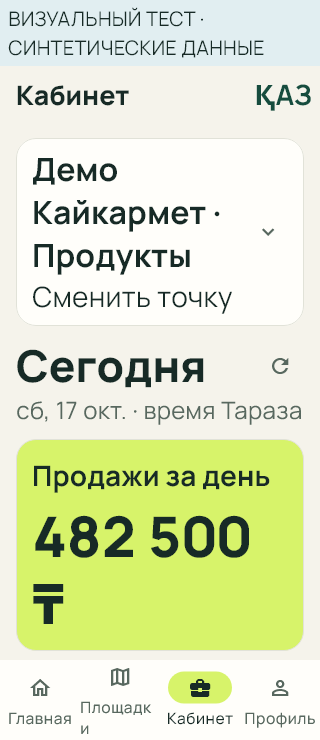
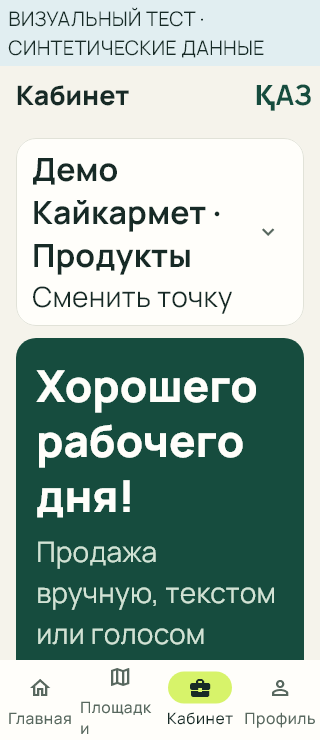
feat(mobile): align seller welcome with current Qadam site

diff --git a/apps/mobile/lib/crm/crm_dashboard.dart b/apps/mobile/lib/crm/crm_dashboard.dart
@@ -1,6 +1,7 @@
 import 'package:flutter/material.dart';
 
 import '../ui/common.dart';
+import '../ui/qadam_theme.dart';
 import 'crm_models.dart';
 import 'crm_pages.dart';
 import 'crm_ui.dart';
@@ -75,6 +76,51 @@ class _CrmDashboardState extends CrmScreenState<CrmDashboard> {
     Column(
       crossAxisAlignment: CrossAxisAlignment.stretch,
       children: [
+        Container(
+          padding: const EdgeInsets.all(20),
+          decoration: BoxDecoration(
+            color: QadamTheme.green,
+            borderRadius: BorderRadius.circular(20),
+          ),
+          child: Column(
+            crossAxisAlignment: CrossAxisAlignment.stretch,
+            children: [
+              Text(
+                tr(kk, 'Хорошего рабочего дня!', 'Жұмысыңыз сәтті болсын!'),
+                style: Theme.of(
+                  context,
+                ).textTheme.titleLarge!.copyWith(color: QadamTheme.surface),
+              ),
+              const SizedBox(height: 8),
+              Text(
+                tr(
+                  kk,
+                  'Продажа вручную, текстом или голосом',
+                  'Сатылымды қолмен, мәтінмен немесе дауыспен енгізу',
+                ),
+                style: const TextStyle(color: Color(0xffd2e2d4)),
+              ),
+              const SizedBox(height: 16),
+              FilledButton.icon(
+                key: const Key('crm-new-entry'),
+                style: FilledButton.styleFrom(
+                  backgroundColor: QadamTheme.lime,
+                  foregroundColor: QadamTheme.ink,
+                ),
+                onPressed: () => open(
+                  CrmEntryPage(
+                    runtime: widget.runtime,
+                    business: widget.business,
+                    kk: kk,
+                  ),
+                ),
+                icon: const Icon(Icons.add),
+                label: Text(tr(kk, 'Новая запись', 'Жаңа жазба')),
+              ),
+            ],
+          ),
+        ),
+        const SizedBox(height: 16),
         Row(
           children: [
             Expanded(
@@ -124,30 +170,6 @@ class _CrmDashboardState extends CrmScreenState<CrmDashboard> {
               ),
             ],
           ),
-        const SizedBox(height: 16),
-        FilledButton.icon(
-          key: const Key('crm-new-entry'),
-          onPressed: () => open(
-            CrmEntryPage(
-              runtime: widget.runtime,
-              business: widget.business,
-              kk: kk,
-            ),
-          ),
-          icon: const Icon(Icons.add),
-          label: Text(tr(kk, 'Новая запись', 'Жаңа жазба')),
-        ),
-        Padding(
-          padding: const EdgeInsets.only(top: 8),
-          child: Text(
-            tr(
-              kk,
-              'Продажа вручную, текстом или голосом',
-              'Сатылымды қолмен, мәтінмен немесе дауыспен енгізу',
-            ),
-            style: Theme.of(context).textTheme.bodySmall,
-          ),
-        ),
         section('Работа с клиентами', 'Клиенттермен жұмыс', [
           action(
             'Клиенты',

diff --git a/apps/mobile/docs/STRUCTURE_051.md b/apps/mobile/docs/STRUCTURE_051.md
@@ -1,0 +1,60 @@
+# Qadam 0.5.1 — единая структура приложения
+
+Пользователь уточнил: Мал базар — площадка рядом с MART, Кайкарметом и Ауыл Береке,
+а не отдельный верхний раздел. Это уточнение заменяет прежний порядок четырёх вкладок.
+
+## Что изменено
+
+- Нижнее меню: **Главная / Площадки / Кабинет / Профиль**.
+- Главная: знак и палитра сайта, зелёный вводный блок, лаймовая кнопка поиска,
+  вход в кабинет и подборка площадок. Главная открывается без входа.
+- Площадки: компактный список с принятыми изображениями, названием и переходом.
+  **Мал базар — четвёртая карточка**, открывающая существующую нативную ленту.
+  Его фото, фильтры, статистика, формы и статусы сохранены.
+- Профиль: аккаунт/вход, кабинет и выбранная точка, свои объявления, выбор RU/KZ,
+  помощь, версия, лицензии и выход. Нет фиктивного редактирования аккаунта.
+- Кабинет: приветствие и основная запись над серверной сводкой; прежние нативные
+  продажи, клиенты, долги, заявки, каталог, история, итог дня и аналитика сохранены.
+- Системный Back возвращает из Мал базара к площадкам, из верхнего раздела на главную.
+  Формы по-прежнему открываются отдельными нативными маршрутами с прежними защитами.
+- Состояние раскрытого выбора точки отделено от позиции прокрутки. Исправлен
+  обнаруженный регресс `double is not a subtype of bool` при восстановлении списка.
+
+## Эталоны и границы сравнения
+
+- `https://qadamx-taraz.vercel.app/`: просмотрена публичная главная, палитра/знак,
+  иерархия выбора площадок; Мал базар обозначен четвёртой площадкой.
+- Предоставленный Vercel Preview `qadamx-taraz-git-integration-customer-ids-history-p-it-chers.vercel.app`
+  перенаправляет этот браузер на Vercel Login. Его визуальная проверка не заявляется.
+  Прочитана ветка `integration/customer-ids-history` на
+  `8f1764d37db9464bcd760be8a29c3b4eb93b96c4`: изменения истории и пакетных имён;
+  SHA работающего Preview независимо не подтверждён.
+- `https://qadamx-taraz.pages.dev/`: доступны главная, вход и **демо-кабинет только для просмотра**.
+  Просмотрены его меню и зелёный приветственный блок. Реальные учётные данные не вводились,
+  операции не отправлялись. Это сравнение интерфейса, не live Auth/денежная приёмка.
+
+В приложении остаются постоянный API `https://qadamx-taraz.onrender.com/api/v1`,
+публичный frontend origin `https://qadamx-taraz.vercel.app` и прежняя Supabase-конфигурация.
+Новые ссылки использованы для сравнения; backend/Auth origins не переключались.
+Главная, профиль, каталог и кабинет остаются Flutter-экранами; WebView только для3D.
+
+## Матрица текущих изменений
+
+| Сценарий сайта | Flutter | Доказательство кода/визуала | Физический телефон |
+|---|---|---|---|
+| Главная → выбор площадки | Новый режим главной в существующем PublicHome | Widget RU/KZ,320–412dp,1–2× | Не проверен |
+| Четыре площадки | PublicHome → VenuePage / прежний Мал базар | Нет вкладки Мал базара; native Back | Не проверен |
+| Кабинет → основные разделы | Прежний CrmDashboard и страницы CRM | Без замены API/денег/pending | Не проверен |
+| Аккаунт и управление | QadamShell Profile | Переход к собственным объявлениям, язык, помощь, logout/isolation | Не проверен |
+| Магазин → каталог/заявка | Прежний PublicShopPage/InquiryForm | Сохранённая регрессия неизвестного результата | Не проверен |
+
+[Галерея Flutter с явно синтетическими данными](reports/visual-051/README.md).
+Факт сборки, source SHA, checksum и Android-прогона фиксируется отдельно в handoff
+и отчёте APK. Наличие кода или синтетического снимка не означает проверку на телефоне.
+
+Открытые ограничения: mobile Auth callback/confirmation/reset; отсутствующие поля
+фото/контактов магазина и серверное редактирование каталога/клиентов; физические A/B,
+камера/микрофон, сохранение реальных данных при обновлении и все9 Android3D-соответствий.
+Ранее сообщённая пользователем «ошибка пакета» остаётся открытой до проверки его устройства.
+Старый recording.webm не искали. Платные AI, денежные операции, внешние заявки,
+main, production, общая БД и настройки Supabase не затронуты.

diff --git a/apps/mobile/docs/reports/visual-051/README.md b/apps/mobile/docs/reports/visual-051/README.md
@@ -1,6 +1,9 @@
 # Qadam 0.5.1 — проверка новой структуры
 
-Source: `51e802bc470b1dc2bf36c67d4f366905945edf75`.
+Source исходного набора: `51e802bc470b1dc2bf36c67d4f366905945edf75`.
+14 кадров dashboard затем обновлены вместе с CrmDashboard по опубликованному
+`qadamx-taraz.pages.dev`: основной ввод теперь в зелёном блоке над сводкой.
+Точный source этих кадров — commit их последнего изменения в этой папке.
 Это настоящие Flutter-виджеты с явно синтетическим HTTP, не снимки телефона.
 82 PNG: RU/KZ, 320/360/390/412dp, масштаб текста1.0/1.3/2.0;
 основной набор из76 layout/read-only проверок прошёл. Никаких денежных/AI/внешних отправок.
